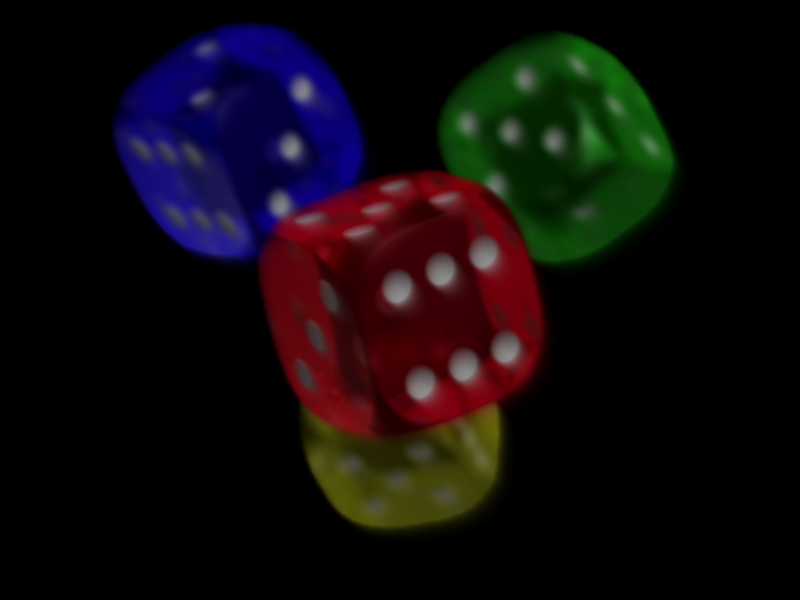
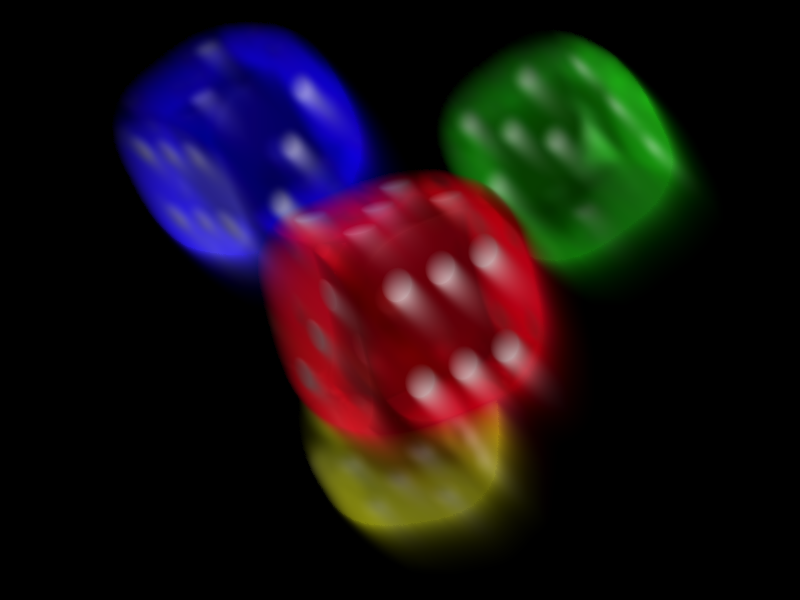
working gauss filter

diff --git a/main.cpp b/main.cpp
@@ -46,7 +46,7 @@ void applyGaussianBlur(cv::Mat image) {
     double sigma = 1;
     int W = 5;
     double kernel[W][W];
-    double mean = W/4;
+    double mean = W/3;
     double sum = 0.0; // For accumulating the kernel values
     for (int x = 0; x < W; ++x)
         for (int y = 0; y < W; ++y) {
@@ -68,6 +68,7 @@ void applyGaussianBlur(cv::Mat image) {
         }
         std::cout << std::endl;
     }
+    
 
 
     std::cout << "Applying kernel." << std::endl;
@@ -86,9 +87,9 @@ void applyGaussianBlur(cv::Mat image) {
             int ix;
             // std::cout << "New kernel loop for pixel " << j << "," << i << std::endl;
 
-            for (iy = int(-radius/2); iy <= int(radius/2); iy++) {
+            for (iy = 0; iy < radius; iy++) {
                 // looping over y value of kernel
-                for (ix = int(-radius/2); ix <= int(radius/2); ix++) {
+                for (ix = 0; ix < radius; ix++) {
                     // looping over x value of kernel
                     
                     // values for multiplication 
@@ -99,13 +100,14 @@ void applyGaussianBlur(cv::Mat image) {
                     // std::cout << "Applying at positions: " << y << "," << x;
                     /*std::cout << ". Value: " << image.at<cv::Vec3b>(y,x) << " * "
                         << kernel[ix][iy] << std::endl;
-                        */
+                        
                     char str[20];
-                    //std::scanf("%s", str);
+                    std::scanf("%s", str);
                      
-                    val1 += (image.at<cv::Vec3b>(y, x)[0] * kernel[iy][ix]);
-                    val2 += (image.at<cv::Vec3b>(y, x)[1] * kernel[iy][ix]);
-                    val3 += (image.at<cv::Vec3b>(y, x)[2] * kernel[iy][ix]);
+                    */
+                    val1 += (image.at<cv::Vec3b>(y, x)[0] * kernel[ix][iy]);
+                    val2 += (image.at<cv::Vec3b>(y, x)[1] * kernel[ix][iy]);
+                    val3 += (image.at<cv::Vec3b>(y, x)[2] * kernel[ix][iy]);
                    //  std::cout << val1 << ", " << val2 << ", " << val3 << std::endl;
                 } 
                 // std::cout << std::endl;
